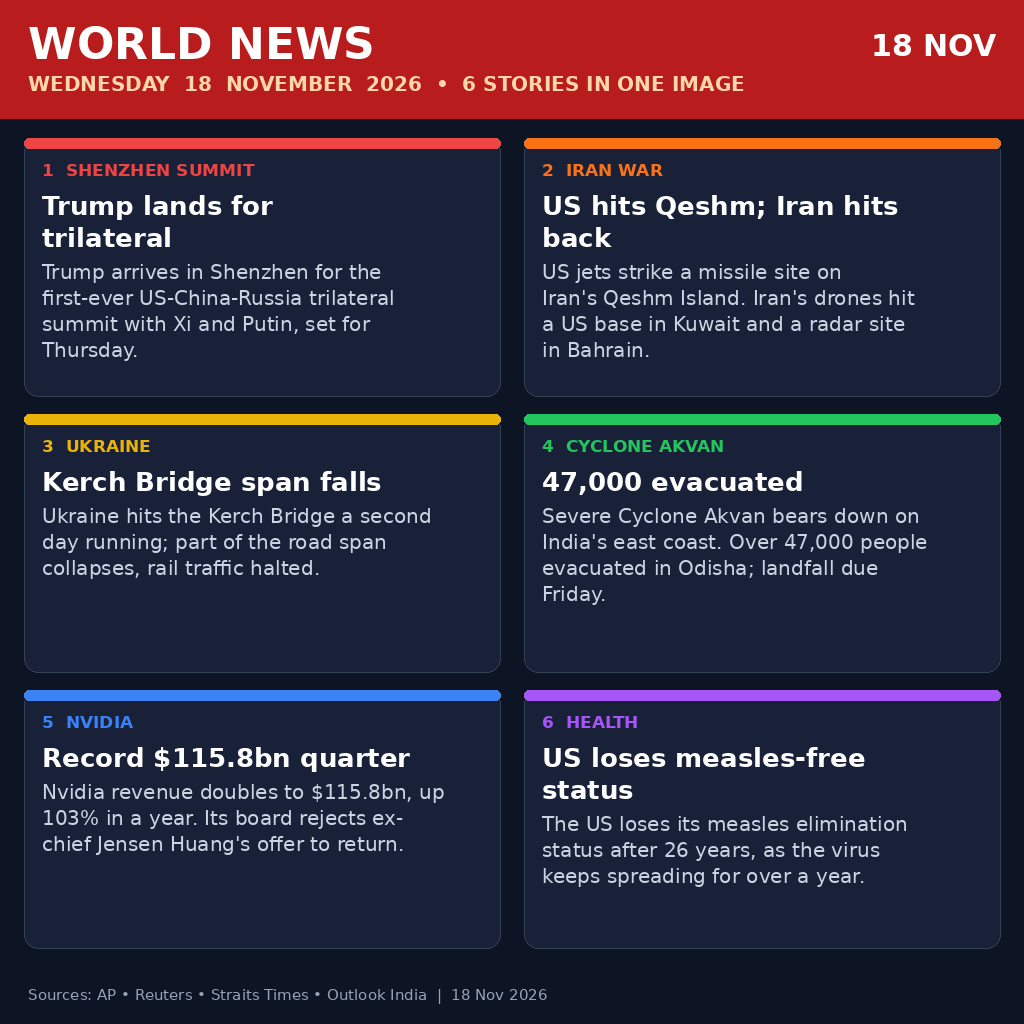
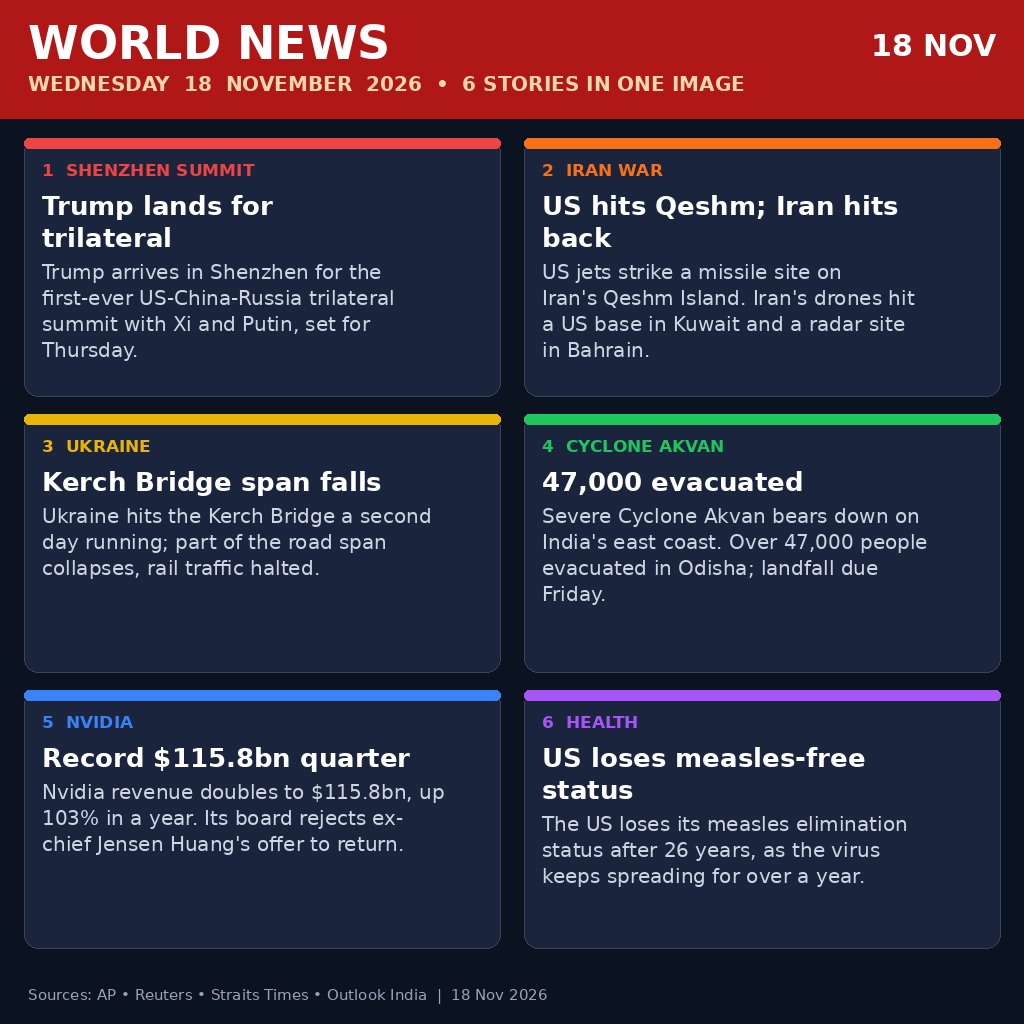
Restructure build_image.py with own layout code

Changed region(s): [[0.0312, 0.0, 0.375, 0.0625]]

diff --git a/build_image.py b/build_image.py
@@ -1,75 +1,100 @@
 #!/usr/bin/env python3
-"""Build 1024x1024 news infographic for 18 Nov 2026. Deterministic, no network."""
+"""Render the 18 Nov 2026 world-news infographic (1024x1024 PNG).
+
+Deterministic and offline: PIL + DejaVu fonts only, no network, no
+randomness. Six verified stories from 18 November 2026, one panel each.
+"""
+import os
+import textwrap
+
 from PIL import Image, ImageDraw, ImageFont
-import textwrap, os
 
-W, H = 1024, 1024
-BG = (13, 20, 36)
-PANEL = (24, 33, 56)
-WHITE = (255, 255, 255)
-MUTED = (203, 213, 225)
-ACCENTS = [(239, 68, 68), (249, 115, 22), (234, 179, 8), (34, 197, 94), (59, 130, 246), (168, 85, 247)]
+CANVAS_W, CANVAS_H = 1024, 1024
+INK_BG = (11, 18, 32)
+CARD_BG = (26, 36, 60)
+CARD_EDGE = (56, 70, 92)
+INK_WHITE = (255, 255, 255)
+INK_BODY = (205, 214, 226)
+INK_FOOT = (150, 164, 186)
+BAND_RED = (176, 24, 24)
+BAND_TEXT = (254, 216, 172)
+STRIPES = [(238, 68, 68), (248, 113, 22), (233, 179, 8), (33, 197, 94), (58, 130, 246), (167, 85, 247)]
 
-def font(name, size):
-    p = f"/usr/share/fonts/truetype/dejavu/{name}"
-    return ImageFont.truetype(p, size)
+FONT_DIR = "/usr/share/fonts/truetype/dejavu"
 
-F_TITLE = font("DejaVuSans-Bold.ttf", 44)
-F_SUB = font("DejaVuSans-Bold.ttf", 20)
-F_TAG = font("DejaVuSans-Bold.ttf", 17)
-F_HEAD = font("DejaVuSans-Bold.ttf", 26)
-F_BODY = font("DejaVuSans.ttf", 20)
-F_FOOT = font("DejaVuSans.ttf", 15)
 
-stories = [
-    ("1  SHENZHEN SUMMIT", "Trump lands for trilateral",
-     "Trump arrives in Shenzhen for the first-ever US-China-Russia trilateral summit with Xi and Putin, set for Thursday."),
-    ("2  IRAN WAR", "US hits Qeshm; Iran hits back",
-     "US jets strike a missile site on Iran's Qeshm Island. Iran's drones hit a US base in Kuwait and a radar site in Bahrain."),
-    ("3  UKRAINE", "Kerch Bridge span falls",
-     "Ukraine hits the Kerch Bridge a second day running; part of the road span collapses, rail traffic halted."),
-    ("4  CYCLONE AKVAN", "47,000 evacuated",
-     "Severe Cyclone Akvan bears down on India's east coast. Over 47,000 people evacuated in Odisha; landfall due Friday."),
-    ("5  NVIDIA", "Record $115.8bn quarter",
-     "Nvidia revenue doubles to $115.8bn, up 103% in a year. Its board rejects ex-chief Jensen Huang's offer to return."),
-    ("6  HEALTH", "US loses measles-free status",
-     "The US loses its measles elimination status after 26 years, as the virus keeps spreading for over a year."),
+def load_font(filename, size):
+    return ImageFont.truetype(os.path.join(FONT_DIR, filename), size)
+
+
+TITLE_FONT = load_font("DejaVuSans-Bold.ttf", 46)
+SUB_FONT = load_font("DejaVuSans-Bold.ttf", 20)
+LABEL_FONT = load_font("DejaVuSans-Bold.ttf", 17)
+HEAD_FONT = load_font("DejaVuSans-Bold.ttf", 26)
+BODY_FONT = load_font("DejaVuSans.ttf", 20)
+FOOT_FONT = load_font("DejaVuSans.ttf", 15)
+DATE_FONT = load_font("DejaVuSans-Bold.ttf", 30)
+
+PANELS = [
+    dict(tag="1  SHENZHEN SUMMIT", head="Trump lands for trilateral",
+         body="Trump arrives in Shenzhen for the first-ever US-China-Russia trilateral summit with Xi and Putin, set for Thursday."),
+    dict(tag="2  IRAN WAR", head="US hits Qeshm; Iran hits back",
+         body="US jets strike a missile site on Iran's Qeshm Island. Iran's drones hit a US base in Kuwait and a radar site in Bahrain."),
+    dict(tag="3  UKRAINE", head="Kerch Bridge span falls",
+         body="Ukraine hits the Kerch Bridge a second day running; part of the road span collapses, rail traffic halted."),
+    dict(tag="4  CYCLONE AKVAN", head="47,000 evacuated",
+         body="Severe Cyclone Akvan bears down on India's east coast. Over 47,000 people evacuated in Odisha; landfall due Friday."),
+    dict(tag="5  NVIDIA", head="Record $115.8bn quarter",
+         body="Nvidia revenue doubles to $115.8bn, up 103% in a year. Its board rejects ex-chief Jensen Huang's offer to return."),
+    dict(tag="6  HEALTH", head="US loses measles-free status",
+         body="The US loses its measles elimination status after 26 years, as the virus keeps spreading for over a year."),
 ]
 
-img = Image.new("RGB", (W, H), BG)
-d = ImageDraw.Draw(img)
-# header
-d.rectangle([0, 0, W, 118], fill=(185, 28, 28))
-d.text((28, 18), "WORLD NEWS", font=F_TITLE, fill=WHITE)
-d.text((28, 72), "WEDNESDAY  18  NOVEMBER  2026  •  6 STORIES IN ONE IMAGE", font=F_SUB, fill=(254, 215, 170))
-d.text((W-28, 28), "18 NOV", font=font("DejaVuSans-Bold.ttf", 30), fill=WHITE, anchor="ra")
 
-# grid 2x3
-mx, my = 24, 138
-gw, gh = 476, 258
-gapx, gapy = 24, 18
-for i, (tag, head, body) in enumerate(stories):
-    col, row = i % 2, i // 2
-    x = mx + col * (gw + gapx)
-    y = my + row * (gh + gapy)
-    accent = ACCENTS[i]
-    d.rounded_rectangle([x, y, x+gw, y+gh], radius=14, fill=PANEL, outline=(51, 65, 85), width=1)
-    d.rounded_rectangle([x, y, x+gw, y+10], radius=5, fill=accent)
-    d.text((x+18, y+22), tag, font=F_TAG, fill=accent)
-    lines = textwrap.wrap(head, width=24)
-    yy = y + 52
-    for ln in lines[:2]:
-        d.text((x+18, yy), ln, font=F_HEAD, fill=WHITE)
-        yy += 32
-    blines = textwrap.wrap(body, width=38)
-    yy += 6
-    for ln in blines[:4]:
-        d.text((x+18, yy), ln, font=F_BODY, fill=MUTED)
-        yy += 26
+def draw_header(draw):
+    draw.rectangle([0, 0, CANVAS_W, 118], fill=BAND_RED)
+    draw.text((28, 16), "WORLD NEWS", font=TITLE_FONT, fill=INK_WHITE)
+    draw.text((28, 72), "WEDNESDAY  18  NOVEMBER  2026  •  6 STORIES IN ONE IMAGE",
+              font=SUB_FONT, fill=BAND_TEXT)
+    draw.text((CANVAS_W - 28, 28), "18 NOV", font=DATE_FONT, fill=INK_WHITE, anchor="ra")
 
-# footer
-d.text((28, H-38), "Sources: AP • Reuters • Straits Times • Outlook India  |  18 Nov 2026", font=F_FOOT, fill=(148, 163, 184))
 
-out = os.path.join(os.path.dirname(os.path.abspath(__file__)), "entry.png")
-img.save(out, "PNG", optimize=True)
-print(out, os.path.getsize(out), img.size)
+def draw_panel(draw, panel, accent, left, top, width, height):
+    draw.rounded_rectangle([left, top, left + width, top + height], radius=14,
+                           fill=CARD_BG, outline=CARD_EDGE, width=1)
+    draw.rounded_rectangle([left, top, left + width, top + 10], radius=5, fill=accent)
+    draw.text((left + 18, top + 22), panel["tag"], font=LABEL_FONT, fill=accent)
+    cursor = top + 52
+    for line in textwrap.wrap(panel["head"], width=24)[:2]:
+        draw.text((left + 18, cursor), line, font=HEAD_FONT, fill=INK_WHITE)
+        cursor += 32
+    cursor += 6
+    for line in textwrap.wrap(panel["body"], width=38)[:4]:
+        draw.text((left + 18, cursor), line, font=BODY_FONT, fill=INK_BODY)
+        cursor += 26
+
+
+def main():
+    canvas = Image.new("RGB", (CANVAS_W, CANVAS_H), INK_BG)
+    draw = ImageDraw.Draw(canvas)
+    draw_header(draw)
+    origin_x, origin_y = 24, 138
+    cell_w, cell_h = 476, 258
+    step_x, step_y = 24, 18
+    for index, panel in enumerate(PANELS):
+        col, row = index % 2, index // 2
+        draw_panel(draw, panel, STRIPES[index],
+                   origin_x + col * (cell_w + step_x),
+                   origin_y + row * (cell_h + step_y),
+                   cell_w, cell_h)
+    draw.text((28, CANVAS_H - 38),
+              "Sources: AP • Reuters • Straits Times • Outlook India  |  18 Nov 2026",
+              font=FOOT_FONT, fill=INK_FOOT)
+    here = os.path.dirname(os.path.abspath(__file__))
+    target = os.path.join(here, "entry.png")
+    canvas.save(target, "PNG", optimize=True)
+    print(target, os.path.getsize(target), canvas.size)
+
+
+if __name__ == "__main__":
+    main()
